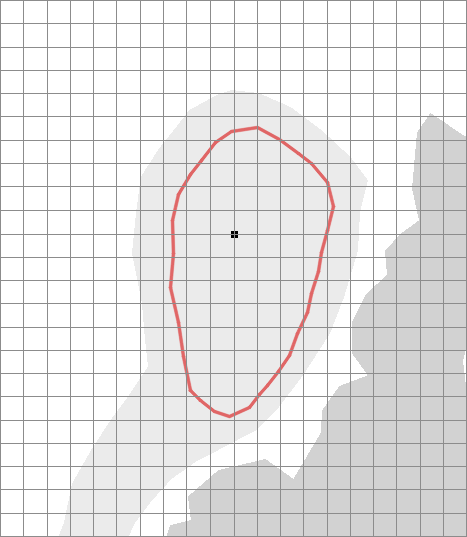
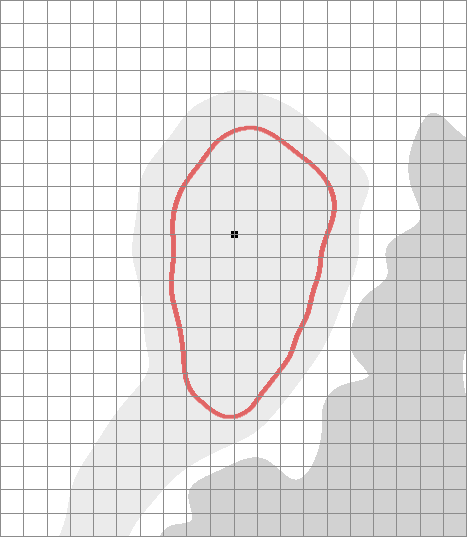
added spline interpolation to create smooth lines

diff --git a/contourline_example.py b/contourline_example.py
@@ -3,22 +3,16 @@ import requests
 
 import matplotlib.pyplot as plt
 from shapely.geometry import Point, Polygon
+from scipy.interpolate import splprep, splev
 import matplotlib.tri as tri
 import time  # To add delays if needed to avoid rate limits
 
+from earthelevation import calcElevation
 import Constants  # Import your API key here
+
 
 # Fetching elevations and storing them
 key = Constants.API_KEY
-
-def calcElevation(lat, lon):
-    lat = str(lat)
-    lon = str(lon)
-    url = f"https://maps.googleapis.com/maps/api/elevation/json?locations={lat},{lon}&key={key}"
-    json_response = requests.get(url).json()
-    print(json_response)
-    elevation = json_response['results'][0]['elevation']
-    return round(elevation, 2)
 
 # Define the green boundary as a polygon with your provided waypoints (lat, lon).
 waypoints = [(1.3244957, 103.9689049), (1.3244684, 103.9689045), (1.3244508, 103.9689068),
@@ -33,6 +27,26 @@ waypoints = [(1.3244957, 103.9689049), (1.3244684, 103.9689045), (1.3244508, 103
              (1.3245575, 103.9689751), (1.3245539, 103.9689562), (1.3245487, 103.9689438),
              (1.3245388, 103.9689281), (1.3245278, 103.9689134), (1.3245140, 103.9689068)]
 polygon = Polygon(waypoints)
+
+# Convert to numpy array for easy manipulation
+waypoints_np = np.array(waypoints)
+
+# Use a smoothing spline to interpolate the boundary
+#s=0 the spline will go exactly through all points, no smoothing. the higher the value the more the spline will deviate from the original points. 
+""" By setting per=1, the spline is forced to wrap around, making the curve loop back to the start. 
+This is useful if you have a boundary or path that should be continuous (such as a polygon or a loop). """
+""" tck: This is the tuple containing the spline representation (knots, coefficients, and degree of the spline).
+u: This is a parameter array that represents the positions of the waypoints along the spline, typically in the range of 0 to 1. """
+
+tck, u = splprep([waypoints_np[:, 0], waypoints_np[:, 1]], s=1e-3, per=1)
+print("tck: ", tck)
+print("u: ", u)
+smooth_lat, smooth_lon = splev(np.linspace(0, 1, 1000), tck)
+
+# Plotting the smoothed boundary and grid
+plt.figure(figsize=(10, 10))
+plt.plot(smooth_lon, smooth_lat, '-', color='red', linewidth=2, label="Smoothed Boundary")
+# Plot the polygon boundary (closed loop)
 
 # Generate grid points spaced 3 yards apart within the bounding box of the polygon.
 grid_spacing = 0.000025  # Roughly 3 yards in lat/lon coordinates.
@@ -64,7 +78,7 @@ latitudes = grid_lat_lons[:, 0]
 longitudes = grid_lat_lons[:, 1]
 
 # Plotting the polygon (green boundary) and grid points with connecting lines
-plt.figure(figsize=(10, 8))
+#plt.figure(figsize=(10, 8))
 
 # Plot the polygon boundary (closed loop)
 polygon_boundary = np.array(waypoints + [waypoints[0]])  # Closing the polygon

diff --git a/hyformulas.py b/hyformulas.py
@@ -7,6 +7,9 @@ import imutils
 from scipy.spatial import distance as dist
 import os
 
+from shapely.geometry import Point, Polygon
+from scipy.interpolate import splprep, splev
+
 from earthelevation import calcElevation
 from beziersvg import drawbeziersvg
 
@@ -402,14 +405,27 @@ def categorizeWays(hole_result, hole_minlat, hole_minlon, hole_maxlat, hole_maxl
 # also draw an outline if it is specified
 
 def drawFeature(image, array, color, line):
-	nds = np.int32([array]) # bug in fillPoly - needs explicit cast to 32bit
-	print("node 0", nds[0])
-	if line < 0:
-			cv2.fillPoly(image, nds, color)
-
-	if line > 0:
+    nds = np.array(array)
+    #nds = np.int32([array]) # bug in fillPoly - needs explicit cast to 32bit
+    print("node 0", nds[0])
+    tck, u = splprep([nds[:, 0], nds[:, 1]], s=0, per=1)
+    smooth_lat, smooth_lon = splev(np.linspace(0, 1, 100000), tck)
+    
+    smooth_points = np.vstack((smooth_lat, smooth_lon)).T  # Stack as Nx2 array
+    smooth_points = np.round(smooth_points).astype(int)    # Round and convert to integers
+    
+    # Ensure the points are in a shape cv2.polylines expects (list of arrays)
+    smooth_points = smooth_points.reshape((-1, 1, 2))
+    print("smoothing done")
+    
+    if line < 0:
+        cv2.fillPoly(image, [smooth_points], color)
+        
+    if line > 0:
+        print("drawing the line now")
 		# need to redraw a line since fillPoly has no line thickness options that I've found
-	    cv2.polylines(image, nds, True, color, line, lineType=cv2.LINE_AA)
+	    #cv2.polylines(image, nds, True, color, line, lineType=cv2.LINE_AA)
+        cv2.polylines(image, [smooth_points], True, color, line, lineType=cv2.LINE_AA)
 
 	   # drawbeziersvg(nds)        
 
